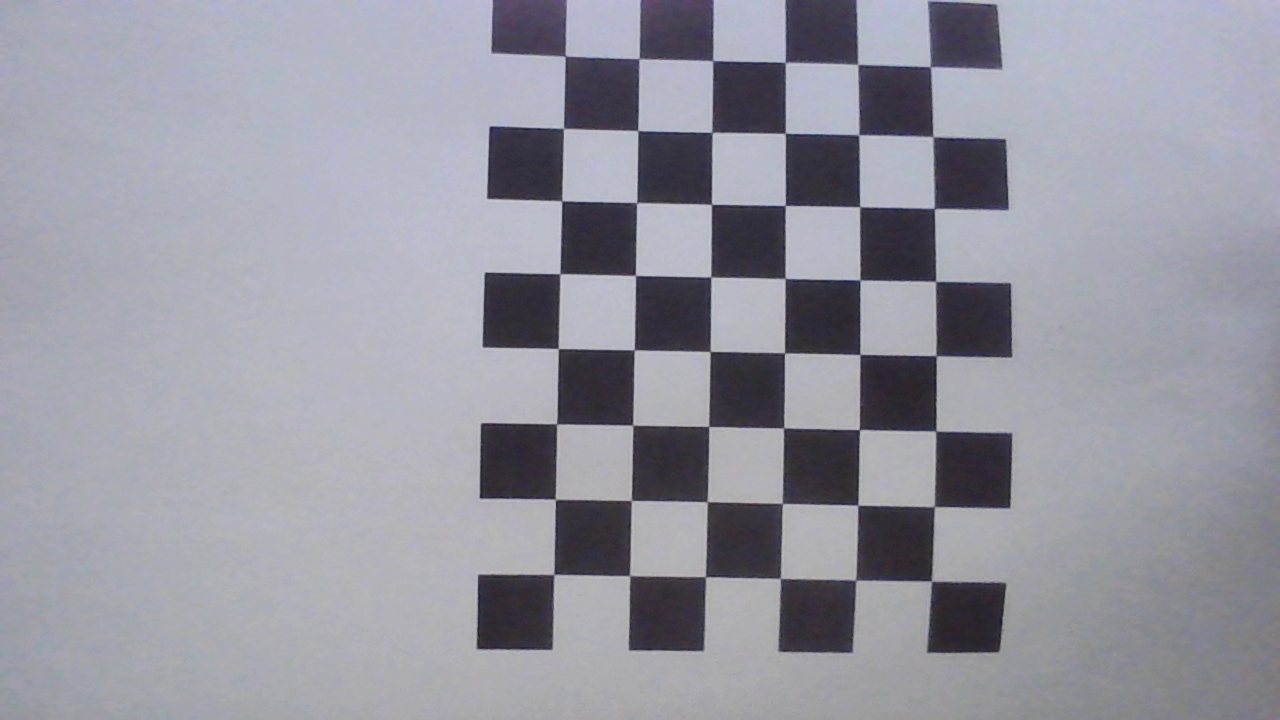
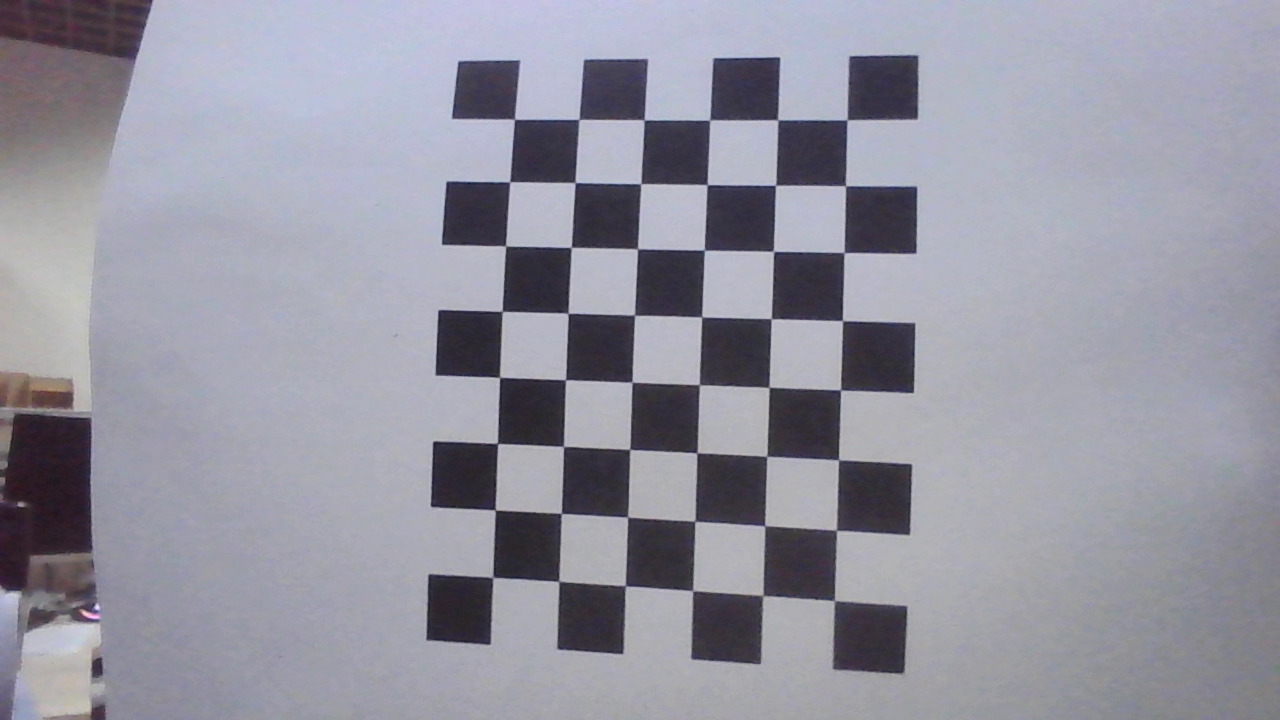
rename cali func & disp calibrated image in Rviz

diff --git a/src/cam_node.cpp b/src/cam_node.cpp
@@ -16,8 +16,6 @@ CameraNode::CameraNode(cv::VideoCapture cap){
 void CameraNode::CamPublisher(ros::NodeHandle camera_node){
     image_transport::ImageTransport it(camera_node);
     image_transport::Publisher pub = it.advertise(img_topic.c_str(), 1);
-
-    cv::Mat frame;
  
     ros::Rate loop_rate(30);
     int img_id = 1;
@@ -29,7 +27,7 @@ void CameraNode::CamPublisher(ros::NodeHandle camera_node){
             cv::imwrite(filename.c_str(), frame);
 
             if (image_exist_flag == 1){
-                CameraNode::ImageProcess(frame); // process images from camera
+                CameraNode::OpencvCalibrateCameraIntrinsics(); // process images from camera
             }
 
 	    	sensor_msgs::ImagePtr msg = cv_bridge::CvImage(std_msgs::Header(), "bgr8", frame).toImageMsg();
@@ -46,7 +44,7 @@ void CameraNode::CamPublisher(ros::NodeHandle camera_node){
 
 }
 
-void CameraNode::ImageProcess(cv::Mat frame){
+void CameraNode::OpencvCalibrateCameraIntrinsics(){
     // 1. Define checkerboard parameters
     int boardWidth = 6;  // horizontal corner number
     int boardHeight = 8; // vertical corner number
@@ -90,6 +88,7 @@ void CameraNode::ImageProcess(cv::Mat frame){
         cv::Mat cameraMatrix, distCoeffs;
         std::vector<cv::Mat> rvecs, tvecs;
         cv::calibrateCamera(objectPoints, imagePoints, image.size(), cameraMatrix, distCoeffs, rvecs, tvecs);
+        frame = image;
         cv::imwrite("/home/renjie/catkin_ws/src/Camera_Calibration/image/calibrated_image.png",image);
 
         std::cout << "Camera matrix:" << std::endl << cameraMatrix << std::endl;

diff --git a/include/cam_cali/cam_node.hpp b/include/cam_cali/cam_node.hpp
@@ -24,11 +24,12 @@ class CameraNode{
         CameraNode(cv::VideoCapture cap);
 
         void CamPublisher(ros::NodeHandle camera_node);
-        void ImageProcess(cv::Mat frame);
+        void OpencvCalibrateCameraIntrinsics();
 
         ros::NodeHandle camera_node;
         cv::VideoCapture cap_;
         std::string img_topic="camera/image";
+        cv::Mat frame;
         int img_num = 9;
         std::string filename;
 };
